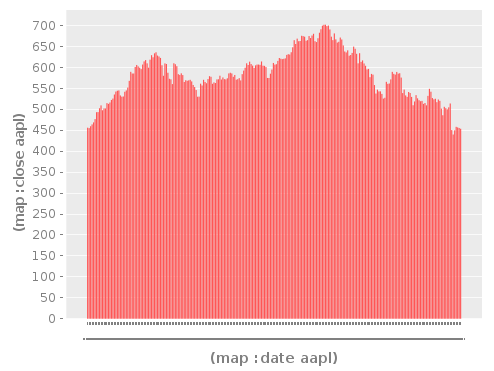
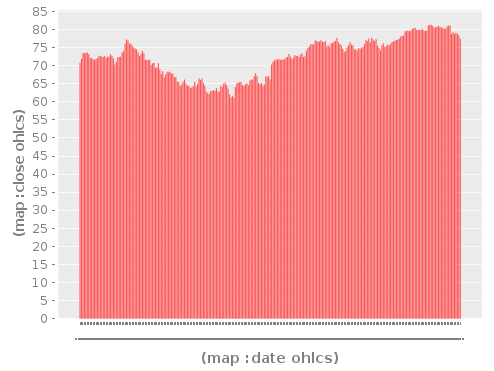
updated doc

diff --git a/doc/intro.md b/doc/intro.md
@@ -1,0 +1,27 @@
+# Step by step:
+
+All lines starting with two semicolons (;;) assume a running clojure REPL in the namespace finstats.core and are valid clojure commands (without the semicolons)
+
+obtain raw data - do't execute this too often because yahoo is actually giving us this data for free and we shouldn't abuse that
+
+;; (def raw-data (slurp (y/create-http-request "SIE.DE" [2012 1 1] [2013 1 1])))
+
+parse the raw-data
+;; (def ohlcs (y/parse-string raw-data))
+;; (first ohlcs)
+
+should return:
+;; {:adjusted-close 72.5961, :volume 2979000, :close 77.4255, :low 77.1348, :high 78.5883, :open 78.4042, :date "2013-02-01"}
+Note that for some reason it returns February 1 2013 instead of January one
+
+However, we still got a year of data because (last ohlcs) is February 1 2012 as well
+
+For visualizing the data, we first need to reverse the data (because we always look at dates in increasing order)
+;; (def ohlcs (vec (rseq ohlcs)))
+
+visualize bar-chart with
+;; (ic/view (charts/bar-chart (map :date ohlcs) (map :close ohlcs)))
+
+visualize candle-stick plot with
+;; (ic/view (charts/candle-stick-plot :data (create-dataset ohlcs)))
+
